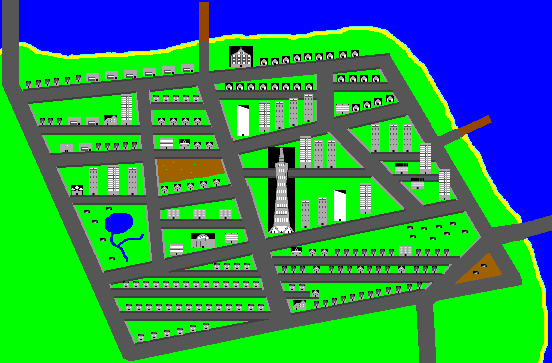
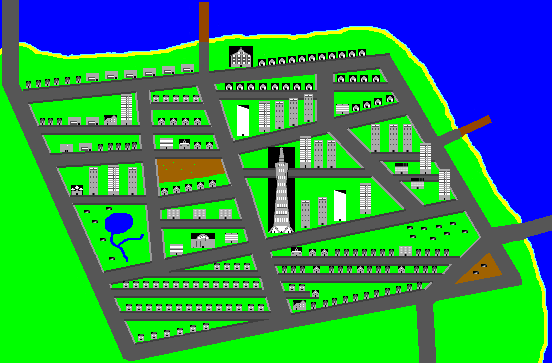
San Cisco, Finished
The largest City in the game is now fully completed.

diff --git a/src/ca/javajesus/level/SanCisco.java b/src/ca/javajesus/level/SanCisco.java
@@ -1,0 +1,278 @@
+package ca.javajesus.level;
+
+import java.awt.Point;
+
+import ca.javajesus.game.entities.structures.ApartmentHighRise;
+import ca.javajesus.game.entities.structures.CatholicChurch;
+import ca.javajesus.game.entities.structures.ChinatownHouse;
+import ca.javajesus.game.entities.structures.Factory;
+import ca.javajesus.game.entities.structures.GenericHospital;
+import ca.javajesus.game.entities.structures.Hotel;
+import ca.javajesus.game.entities.structures.ModernSkyscraper;
+import ca.javajesus.game.entities.structures.NiceHouse;
+import ca.javajesus.game.entities.structures.NiceHouse2;
+import ca.javajesus.game.entities.structures.Police;
+import ca.javajesus.game.entities.structures.PoorHouse;
+import ca.javajesus.game.entities.structures.Projects;
+import ca.javajesus.game.entities.structures.RefugeeTent;
+import ca.javajesus.game.entities.structures.RussianClub;
+import ca.javajesus.game.entities.structures.RussianOrthodoxChurch;
+import ca.javajesus.game.entities.structures.SanCiscoCityHall;
+import ca.javajesus.game.entities.structures.SanCiscoSkyscraper;
+import ca.javajesus.game.entities.structures.Skyscraper;
+import ca.javajesus.game.entities.structures.TriadHQ;
+import ca.javajesus.game.entities.structures.Warehouse;
+import ca.javajesus.game.entities.vehicles.CenturyLeSabre;
+
+public class SanCisco extends Level {
+
+	public SanCisco() {
+		super("/Levels/Cities/San_Cisco.png", true);
+		this.spawnPoint = new Point(3400, 2688);
+		startingSpawnPoint = new Point(3400, 2688);
+	}
+
+	protected void initNPCPlacement() {
+		
+		this.addEntity(new CenturyLeSabre(this, 3425, 2688));
+		
+	}
+
+	protected void initSpawnerPlacement() {
+		
+	}
+
+	protected void initChestPlacement() {
+		
+	}
+	
+	protected void otherEntityPlacement() {
+		//Residential (Nob Hill)
+			this.addEntity(new NiceHouse2(this, 1712, 2100));
+			this.addEntity(new NiceHouse2(this, 1792, 2100));
+			this.addEntity(new NiceHouse2(this, 1872, 2100));
+			this.addEntity(new NiceHouse2(this, 1952, 2100));
+			this.addEntity(new NiceHouse2(this, 984, 2244));
+			this.addEntity(new NiceHouse2(this, 1064, 2244));
+			this.addEntity(new NiceHouse2(this, 1144, 2244));
+			this.addEntity(new NiceHouse2(this, 1224, 2244));
+			this.addEntity(new NiceHouse2(this, 1304, 2244));
+			this.addEntity(new NiceHouse2(this, 1384, 2244));
+			this.addEntity(new NiceHouse2(this, 1464, 2244));
+			this.addEntity(new NiceHouse2(this, 1544, 2244));
+			this.addEntity(new NiceHouse2(this, 1624, 2244));
+			this.addEntity(new NiceHouse2(this, 1704, 2244));
+			this.addEntity(new NiceHouse2(this, 1784, 2244));
+			this.addEntity(new NiceHouse2(this, 1864, 2244));
+			this.addEntity(new NiceHouse2(this, 1944, 2244));
+			this.addEntity(new NiceHouse2(this, 2024, 2244));
+			this.addEntity(new NiceHouse2(this, 1008, 2428));
+			this.addEntity(new NiceHouse2(this, 1088, 2428));
+			this.addEntity(new NiceHouse2(this, 1168, 2428));
+			this.addEntity(new NiceHouse2(this, 1248, 2428));
+			this.addEntity(new NiceHouse2(this, 1328, 2428));
+			this.addEntity(new NiceHouse2(this, 1408, 2428));
+			this.addEntity(new NiceHouse2(this, 1488, 2428));
+			this.addEntity(new NiceHouse2(this, 1568, 2428));
+			this.addEntity(new NiceHouse2(this, 1648, 2428));
+			this.addEntity(new NiceHouse2(this, 1728, 2428));
+			this.addEntity(new NiceHouse2(this, 1808, 2428));
+			this.addEntity(new NiceHouse2(this, 1888, 2428));
+			this.addEntity(new NiceHouse2(this, 1968, 2428));
+			this.addEntity(new NiceHouse2(this, 2048, 2428));
+			this.addEntity(new NiceHouse2(this, 1104, 2668));
+			this.addEntity(new NiceHouse2(this, 1208, 2652));
+			this.addEntity(new NiceHouse2(this, 1312, 2636));
+			this.addEntity(new NiceHouse2(this, 1416, 2620));
+			this.addEntity(new NiceHouse2(this, 1520, 2596));
+			this.addEntity(new NiceHouse2(this, 1624, 2580));
+
+			
+		//The T-Bone (Tenderloin, Mission)
+			this.addEntity(new Hotel(this, 2344, 2400));
+			this.addEntity(new PoorHouse(this, 2488, 2416));
+			this.addEntity(new PoorHouse(this, 2584, 2400));
+			this.addEntity(new PoorHouse(this, 2656, 2384));
+			this.addEntity(new PoorHouse(this, 2744, 2368));
+			this.addEntity(new PoorHouse(this, 2824, 2352));
+			this.addEntity(new PoorHouse(this, 2912, 2336));
+			this.addEntity(new PoorHouse(this, 2992, 2320));
+			this.addEntity(new PoorHouse(this, 3160, 2304));
+			this.addEntity(new PoorHouse(this, 3168, 2288));
+			this.addEntity(new PoorHouse(this, 3256, 2272));
+			this.addEntity(new PoorHouse(this, 3336, 2256));
+			this.addEntity(new PoorHouse(this, 2256, 2128));
+			this.addEntity(new PoorHouse(this, 2336, 2128));
+			this.addEntity(new PoorHouse(this, 2400, 2128));
+			this.addEntity(new PoorHouse(this, 2632, 2128));
+			this.addEntity(new PoorHouse(this, 2712, 2128));
+			this.addEntity(new PoorHouse(this, 2776, 2128));
+			this.addEntity(new PoorHouse(this, 2936, 2128));
+			this.addEntity(new PoorHouse(this, 3008, 2128));
+			this.addEntity(new PoorHouse(this, 3080, 2128));
+			this.addEntity(new PoorHouse(this, 3312, 2128));
+			this.addEntity(new PoorHouse(this, 3384, 2128));
+			this.addEntity(new PoorHouse(this, 3456, 2128));
+			this.addEntity(new PoorHouse(this, 2680, 1992));
+			this.addEntity(new PoorHouse(this, 2752, 1992));
+			this.addEntity(new PoorHouse(this, 2824, 1992));
+			this.addEntity(new PoorHouse(this, 2896, 1992));
+			this.addEntity(new PoorHouse(this, 2968, 1992));
+			this.addEntity(new PoorHouse(this, 3040, 1992));
+			this.addEntity(new PoorHouse(this, 3112, 1992));
+			this.addEntity(new PoorHouse(this, 3328, 1992));
+			this.addEntity(new PoorHouse(this, 3400, 1992));
+			this.addEntity(new PoorHouse(this, 3480, 1992));
+			this.addEntity(new PoorHouse(this, 3552, 1992));
+			this.addEntity(new CatholicChurch(this, 2328, 1976));
+			this.addEntity(new Projects(this, 3192, 1968));
+			this.addEntity(new NiceHouse(this, 2472, 1992));
+			this.addEntity(new NiceHouse(this, 2088, 1992));
+			this.addEntity(new NiceHouse(this, 2504, 2128));
+			this.addEntity(new NiceHouse(this, 2856, 2128));
+			this.addEntity(new NiceHouse(this, 3184, 2128));
+			this.addEntity(new NiceHouse(this, 2496, 2320));
+			this.addEntity(new NiceHouse2(this, 2312, 2272));
+			this.addEntity(new NiceHouse2(this, 2392, 2272));
+			this.addEntity(new RefugeeTent(this, 3256, 1808));
+			this.addEntity(new RefugeeTent(this, 3368, 1816));
+			this.addEntity(new RefugeeTent(this, 3488, 1800));
+			this.addEntity(new RefugeeTent(this, 3600, 1776));
+			this.addEntity(new RefugeeTent(this, 3696, 1840));
+			this.addEntity(new RefugeeTent(this, 3552, 1856));
+			this.addEntity(new RefugeeTent(this, 3440, 1896));
+			this.addEntity(new RefugeeTent(this, 3280, 1880));
+			this.addEntity(new RefugeeTent(this, 3784, 2168));
+			this.addEntity(new RefugeeTent(this, 3848, 2112));
+
+
+
+		//Downtown (Business District)
+			this.addEntity(new Police(this, 1360, 1952));
+			this.addEntity(new SanCiscoCityHall(this, 1528, 1864));
+			this.addEntity(new GenericHospital(this, 1800, 1864));
+			this.addEntity(new SanCiscoSkyscraper(this, 2144, 1176));
+			this.addEntity(new ApartmentHighRise(this, 2408, 1600));
+			this.addEntity(new ApartmentHighRise(this, 2544, 1576));
+			this.addEntity(new ApartmentHighRise(this, 2512, 1120));
+			this.addEntity(new ApartmentHighRise(this, 2616, 1120));
+			this.addEntity(new ApartmentHighRise(this, 2968, 992));
+			this.addEntity(new ApartmentHighRise(this, 3112, 992));
+			this.addEntity(new ApartmentHighRise(this, 3224, 992));
+			this.addEntity(new ApartmentHighRise(this, 2200, 808));
+			this.addEntity(new ApartmentHighRise(this, 2312, 784));
+			this.addEntity(new ApartmentHighRise(this, 2432, 752));
+			this.addEntity(new ModernSkyscraper(this, 1896, 840));
+			this.addEntity(new ModernSkyscraper(this, 2672, 1520));
+			this.addEntity(new Skyscraper(this, 2880, 1464));
+			this.addEntity(new Skyscraper(this, 2400, 1088));
+			this.addEntity(new Skyscraper(this, 2072, 808));
+			this.addEntity(new Skyscraper(this, 3360, 1144));
+			this.addEntity(new Skyscraper(this, 3512, 1352));
+			this.addEntity(new Factory(this, 3160, 1304));
+			this.addEntity(new Factory(this, 3288, 1424));
+
+			
+
+
+		//Chinatown (Chinatown)
+			this.addEntity(new TriadHQ(this, 1832, 368));
+			this.addEntity(new ChinatownHouse(this, 2064, 472));
+			this.addEntity(new ChinatownHouse(this, 2144, 464));
+			this.addEntity(new ChinatownHouse(this, 2224, 456));
+			this.addEntity(new ChinatownHouse(this, 2304, 448));
+			this.addEntity(new ChinatownHouse(this, 2384, 440));
+			this.addEntity(new ChinatownHouse(this, 2464, 432));
+			this.addEntity(new ChinatownHouse(this, 2544, 424));
+			this.addEntity(new ChinatownHouse(this, 2624, 416));
+			this.addEntity(new ChinatownHouse(this, 2704, 408));
+			this.addEntity(new ChinatownHouse(this, 2784, 400));
+			this.addEntity(new ChinatownHouse(this, 2864, 392));
+			this.addEntity(new ChinatownHouse(this, 2696, 600));
+			this.addEntity(new ChinatownHouse(this, 2792, 600));
+			this.addEntity(new ChinatownHouse(this, 2880, 600));
+			this.addEntity(new ChinatownHouse(this, 2876, 600));
+			this.addEntity(new ChinatownHouse(this, 1800, 664));
+			this.addEntity(new ChinatownHouse(this, 1888, 664));
+			this.addEntity(new ChinatownHouse(this, 1976, 664));
+			this.addEntity(new ChinatownHouse(this, 2072, 664));
+			this.addEntity(new ChinatownHouse(this, 2168, 664));
+			this.addEntity(new ChinatownHouse(this, 2256, 664));
+			this.addEntity(new ChinatownHouse(this, 2344, 664));
+			this.addEntity(new ChinatownHouse(this, 2440, 664));
+			this.addEntity(new ChinatownHouse(this, 2816, 832));
+			this.addEntity(new ChinatownHouse(this, 2904, 808));
+			this.addEntity(new ChinatownHouse(this, 2992, 784));
+			this.addEntity(new ChinatownHouse(this, 3086, 760));
+			this.addEntity(new GenericHospital(this, 2688, 832));
+
+
+		//Little Russia (Presidio)
+			this.addEntity(new ApartmentHighRise(this, 712, 1336));
+			this.addEntity(new ApartmentHighRise(this, 1024, 1336));
+			this.addEntity(new Skyscraper(this, 968, 752));
+			this.addEntity(new Skyscraper(this, 864, 1320));
+			this.addEntity(new RussianOrthodoxChurch(this, 568, 1480));
+			this.addEntity(new RussianClub(this, 480, 1152));
+			this.addEntity(new Hotel(this, 832, 920));
+			this.addEntity(new Warehouse(this, 688,584));
+			this.addEntity(new Warehouse(this, 840,568));
+			this.addEntity(new Warehouse(this, 992,560));
+			this.addEntity(new Warehouse(this, 1144,544));
+			this.addEntity(new Warehouse(this, 1296,528));
+			this.addEntity(new Warehouse(this, 1448,512));
+			this.addEntity(new Warehouse(this, 632,1144));
+			this.addEntity(new Warehouse(this, 544,936));
+			this.addEntity(new Warehouse(this, 688,936));
+			this.addEntity(new PoorHouse(this, 208, 648));
+			this.addEntity(new PoorHouse(this, 288, 640));
+			this.addEntity(new PoorHouse(this, 360, 632));
+			this.addEntity(new PoorHouse(this, 432, 624));
+			this.addEntity(new PoorHouse(this, 520, 616));
+			this.addEntity(new PoorHouse(this, 608, 608));
+			this.addEntity(new PoorHouse(this, 320, 944));
+			this.addEntity(new PoorHouse(this, 384, 944));
+			this.addEntity(new PoorHouse(this, 456, 944));
+			this.addEntity(new PoorHouse(this, 784, 1152));
+			this.addEntity(new PoorHouse(this, 864, 1144));
+			this.addEntity(new PoorHouse(this, 928, 1144));
+			this.addEntity(new PoorHouse(this, 1000, 1144));
+			this.addEntity(new PoorHouse(this, 1056, 1136));
+			this.addEntity(new NiceHouse2(this, 1224, 760));
+			this.addEntity(new NiceHouse2(this, 1304, 760));
+			this.addEntity(new NiceHouse2(this, 1384, 760));
+			this.addEntity(new NiceHouse2(this, 1464, 760));
+			this.addEntity(new NiceHouse2(this, 1544, 760));
+			this.addEntity(new NiceHouse(this, 1264, 944));
+			this.addEntity(new NiceHouse(this, 1360, 944));
+			this.addEntity(new NiceHouse(this, 1456, 944));
+			this.addEntity(new NiceHouse(this, 1552, 944));
+			this.addEntity(new NiceHouse(this, 1552, 1136));
+			this.addEntity(new NiceHouse(this, 1648, 1136));
+			this.addEntity(new Police(this, 1280, 1104));
+			this.addEntity(new CatholicChurch(this, 1432, 1112));
+			this.addEntity(new NiceHouse(this, 1288, 1504));
+			this.addEntity(new NiceHouse(this, 1384, 1488));
+			this.addEntity(new NiceHouse(this, 1480, 1472));
+			this.addEntity(new NiceHouse(this, 1576, 1456));
+			this.addEntity(new NiceHouse(this, 1672, 1440));
+			this.addEntity(new RefugeeTent(this, 672, 1680));
+			this.addEntity(new RefugeeTent(this, 736, 1760));
+			this.addEntity(new RefugeeTent(this, 800, 1904));
+			this.addEntity(new RefugeeTent(this, 872, 2056));
+			this.addEntity(new RefugeeTent(this, 848, 1656));
+			this.addEntity(new Projects(this, 1336, 1672));
+			this.addEntity(new Projects(this, 1544, 1672));
+			this.addEntity(new Projects(this, 1752, 1672));
+
+
+
+
+
+
+
+	}
+	
+	
+
+}

diff --git a/src/ca/javajesus/level/tile/Tile.java b/src/ca/javajesus/level/tile/Tile.java
@@ -31,7 +31,7 @@ public abstract class Tile {
 	public static final Tile SAND = new BaseTile(4, 0, 1, new int[] {
 			0xFFEEBB00, 0xFFFFFF00, 0xFF000000 }, 0xFFFFFF00);
 	public static final Tile ROAD1 = new BaseTile(6, 0, 2, new int[] {
-			0xFFa7a7a7, 0xFF353535, 0xFF000000 }, 0xFF565656);
+			0xFF222222, 0xFF353535, 0xFF000000 }, 0xFF565656);
 	public static final Tile ROAD2 = new BaseTile(7, 1, 2, new int[] {
 			0xFFa7a7a7, 0xFF3c3c3c, 0xFF000000 }, 0xFF3f3f3f);
 	public static final Tile WATERSAND = new AnimatedTile(8, new int[][] {
@@ -58,7 +58,7 @@ public abstract class Tile {
 	public static final Tile CAVEWALL = new BasicSolidTile(19, 4, 0, new int[] {
 			0xFF92928D, 0xFF636361, 0xFF000000 }, 0xFF291900);
 	public static final Tile CAVEFLOOR = new BaseTile(20, 0, 2, new int[] {
-			0xFFAEAEAD, 0xFF000000, 0xFF000000 }, 0xFFC3BEB7);
+			0xFFa7a7a7, 0xFF000000, 0xFF000000 }, 0xFFC3BEB7);
 	public static final Tile WOODFLOOR = new BaseTile(21, 6, 0, new int[] {
 			0xFF753003, 0xFF291900, 0xFF000000 }, 0xFF944500);
 	public static final Tile METALWALL = new BasicSolidTile(22, 5, 0,

diff --git a/src/ca/javajesus/level/BautistasDomain.java b/src/ca/javajesus/level/BautistasDomain.java
@@ -2,14 +2,9 @@ package ca.javajesus.level;
 
 import java.awt.Point;
 
-import ca.javajesus.game.entities.structures.Castle;
-import ca.javajesus.game.entities.structures.CastleTower;
 import ca.javajesus.game.entities.structures.CatholicChapel;
 import ca.javajesus.game.entities.structures.CaveEntrance;
-import ca.javajesus.game.entities.structures.GenericHospital;
 import ca.javajesus.game.entities.structures.GunStore;
-import ca.javajesus.game.entities.structures.Hotel;
-import ca.javajesus.game.entities.structures.Hut;
 import ca.javajesus.game.entities.structures.NiceHouse;
 import ca.javajesus.game.entities.structures.NiceHouse2;
 

diff --git a/src/ca/javajesus/level/LordHillsboroughsDomain.java b/src/ca/javajesus/level/LordHillsboroughsDomain.java
@@ -77,7 +77,7 @@ public class LordHillsboroughsDomain extends Level{
 		
 		this.addEntity(new NiceHouse(this, 1824, 1511));
 		this.addEntity(new NiceHouse(this, 2216, 1511));
-		this.addEntity(new NiceHouse(this, 1766, 1863));
+		this.addEntity(new NiceHouse(this, 1736, 1863));
 		this.addEntity(new NiceHouse(this, 1832, 1863));
 		this.addEntity(new NiceHouse(this, 1928, 1863));
 		this.addEntity(new NiceHouse(this, 2024, 1863));

diff --git a/src/ca/javajesus/level/Level.java b/src/ca/javajesus/level/Level.java
@@ -47,7 +47,7 @@ public abstract class Level implements Serializable {
 
 	protected int[] tileColours;
 
-	public static Level level1 = new Level1();
+	public static Level level1 = new SanCisco();
 	public static Level lordHillsboroughsDomain = new LordHillsboroughsDomain();
 	public static Level roadlevel = new RoadLevel();
 	public static Level random = new RandomLevel(level1.width, level1.height);
